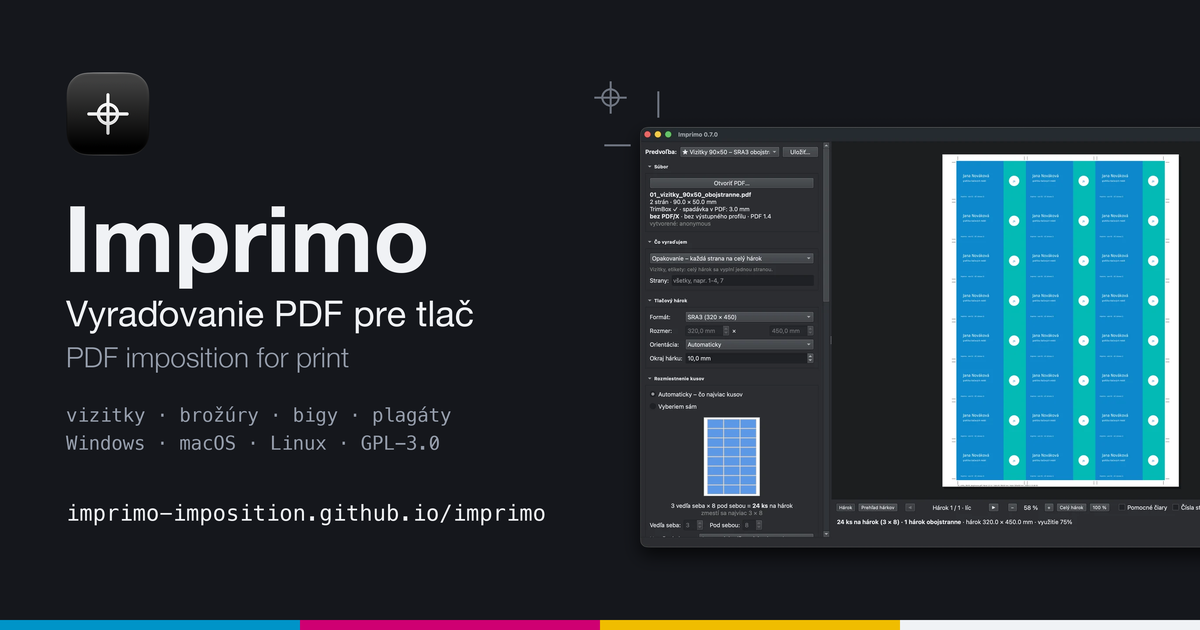
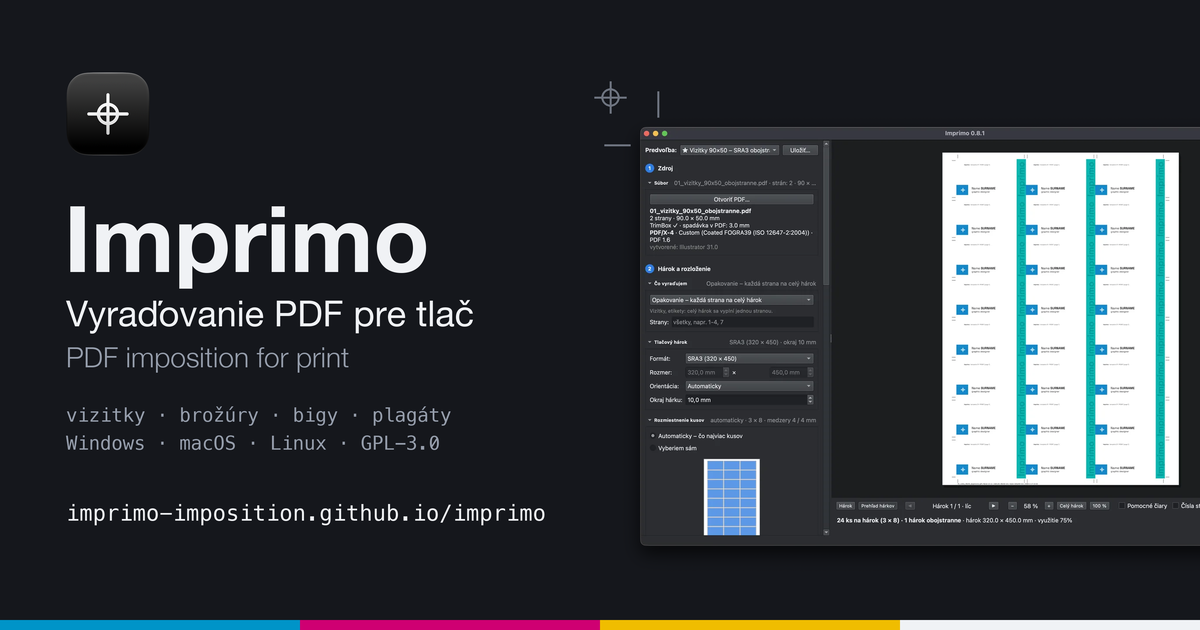
Website: share image with the 0.8.1 screenshot; tools_share_image.py
The script draws the 1200×630 social preview (docs/img/share.png) and the
Ko-fi banner (promo/, not in git) at 3× and scales them down.

Changed region(s): [[0.5242, 0.2111, 1.0, 0.8746]]

diff --git a/tools_share_image.py b/tools_share_image.py
@@ -1,0 +1,76 @@
+"""Social media images (1200 × 630): docs/img/share.png (website preview) and
+promo/imprimo-kofi.png (Ko-fi / support banner, promo/ is not in git).
+Uses the website hero screenshot docs/mac/hero_sk_dark.webp – retake that first.
+macOS only (Helvetica Neue, Menlo).  Run from the repository root:
+    .venv/bin/python tools_share_image.py
+"""
+import os, math
+from PIL import Image, ImageDraw, ImageFont
+HN = "/System/Library/Fonts/HelveticaNeue.ttc"
+MONO = "/System/Library/Fonts/Menlo.ttc"
+S = 3                                     # draw 3× larger, then scale down = smooth edges
+W, H = 1200 * S, 630 * S
+INK, MUTED = (21, 23, 28), (150, 158, 172)
+C, M, Y, K = (0, 148, 200), (207, 0, 114), (240, 189, 0), (240, 242, 245)
+WHITE = (255, 255, 255)
+
+def font(size, idx=0, path=HN):
+    return ImageFont.truetype(path, size * S, index=idx)
+
+def heart(d, cx, cy, size, fill):
+    """Classic heart curve (x = 16 sin³t, y = 13 cos t − 5 cos 2t − 2 cos 3t − cos 4t)."""
+    k = size / 34.0
+    pts = []
+    for i in range(240):
+        t = 2 * math.pi * i / 240
+        x = 16 * math.sin(t) ** 3
+        y = 13 * math.cos(t) - 5 * math.cos(2 * t) - 2 * math.cos(3 * t) - math.cos(4 * t)
+        pts.append((cx + x * k, cy - y * k - size * 0.05))
+    d.polygon(pts, fill=fill)
+
+def card(out, kofi):
+    im = Image.new("RGB", (W, H), INK)
+    d = ImageDraw.Draw(im)
+    shot = Image.open("docs/mac/hero_sk_dark.webp").convert("RGBA")
+    sw = 700 * S
+    shot = shot.resize((sw, round(shot.height * sw / shot.width)), Image.LANCZOS)
+    sx, sy = 615 * S, 110 * S
+    im.paste(shot, (sx, sy), shot)
+    bx0, by0, _x, _y = shot.getchannel("A").point(lambda a: 255 if a > 230 else 0).getbbox()
+    wx, wy = sx + bx0, sy + by0
+    mk, lw = (110, 116, 128), 2 * S
+    d.line([(wx - 10 * S, wy + 18 * S), (wx - 36 * S, wy + 18 * S)], fill=mk, width=lw)
+    d.line([(wx + 18 * S, wy - 10 * S), (wx + 18 * S, wy - 36 * S)], fill=mk, width=lw)
+    tx, ty, r = wx - 30 * S, wy - 30 * S, 9 * S
+    d.ellipse([tx - r, ty - r, tx + r, ty + r], outline=mk, width=lw)
+    d.line([(tx - 16 * S, ty), (tx + 16 * S, ty)], fill=mk, width=lw)
+    d.line([(tx, ty - 16 * S), (tx, ty + 16 * S)], fill=mk, width=lw)
+
+    icon = Image.open("imprimo/assets/icon/png/imprimo-512.png").convert("RGBA").resize((88 * S, 88 * S), Image.LANCZOS)
+    im.paste(icon, (64 * S, 70 * S), icon)
+    d.text((64 * S, 182 * S), "Imprimo", font=font(92, 1), fill=K)
+    d.text((66 * S, 292 * S), "Vyraďovanie PDF pre tlač", font=font(36, 0), fill=K)
+    d.text((66 * S, 340 * S), "PDF imposition for print", font=font(28, 7), fill=MUTED)
+    d.text((66 * S, 404 * S), "vizitky · brožúry · bigy · plagáty", font=font(19, 0, MONO), fill=MUTED)
+    d.text((66 * S, 432 * S), "Windows · macOS · Linux · GPL-3.0", font=font(19, 0, MONO), fill=MUTED)
+    if kofi:
+        f = font(26, 1)
+        txt = "Podporte projekt · Support Imprimo"
+        x0, top, hgt = 64 * S, 490 * S, 60 * S
+        pad, hs, gap = 28 * S, 22 * S, 14 * S       # padding, heart size, heart–text gap
+        tw = d.textlength(txt, font=f)
+        x1 = x0 + pad + hs + gap + tw + pad
+        d.rounded_rectangle([x0, top, x1, top + hgt], radius=hgt // 2, fill=M)
+        cy = top + hgt / 2
+        heart(d, x0 + pad + hs / 2, cy, hs, WHITE)
+        d.text((x0 + pad + hs + gap, cy), txt, font=f, fill=WHITE, anchor="lm")   # vertically centred
+    else:
+        d.text((66 * S, 500 * S), "imprimo-imposition.github.io/imprimo", font=font(22, 0, MONO), fill=K)
+    for i, col in enumerate((C, M, Y, K)):
+        d.rectangle([i * W / 4, H - 10 * S, (i + 1) * W / 4, H], fill=col)
+    im.resize((1200, 630), Image.LANCZOS).save(out, optimize=True)
+    print(out)
+
+os.makedirs("promo", exist_ok=True)
+card("promo/imprimo-kofi.png", True)
+card("docs/img/share.png", False)
